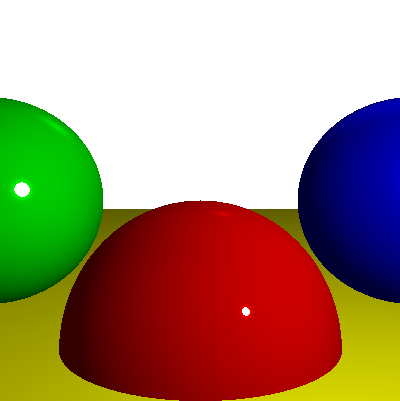
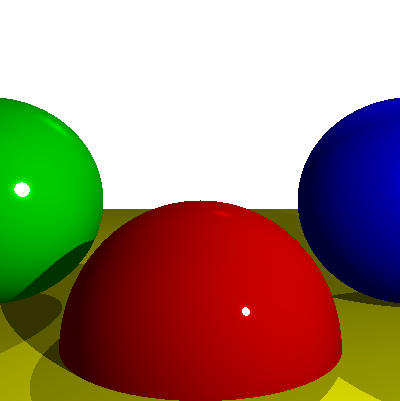
Initial version of shadows was added.

Changed region(s): [[0.57, 0.5686, 1.0, 1.0], [0.0, 0.5985, 0.45, 1.0]]

diff --git a/ray_trace/mainwindow.cpp b/ray_trace/mainwindow.cpp
@@ -62,6 +62,25 @@ std::vector<double> CanvasToViewport(double x, double y) {
     return {x * Vw / Cw, y * Vh / Ch, d};
 }
 
+void ClosestIntersection (const std::vector<double>& O,
+                          const std::vector<double>& D,
+                          const double& t_min,
+                          const double& t_max,
+                          double& closest_t,
+                          Object*& closest_object) {
+    for (size_t i = 0; i < objects.size(); i++) {
+        std::vector<double> intersections = objects[i]->IntersectRay(O, D);
+        if (intersections[0] > t_min && intersections[0] < t_max && intersections[0] < closest_t) {
+            closest_t = intersections[0];
+            closest_object= objects[i];
+        }
+        if (intersections[1] > t_min && intersections[1] < t_max && intersections[1] < closest_t) {
+            closest_t = intersections[1];
+            closest_object = objects[i];
+        }
+    }
+}
+
 double ComputeLightning(const std::vector<double>& P,
                         const std::vector<double>& N,
                         const std::vector<double>& V,
@@ -72,13 +91,25 @@ double ComputeLightning(const std::vector<double>& P,
         if (light.t == Light::type::ambient) {
             i += light.intensity;
         } else {
+            double t_max;
             if (light.t == Light::type::point) {
                 L = {light.position[0] - P[0],
                      light.position[1] - P[1],
                      light.position[2] - P[2]};
+                t_max = 1;
             } else {
                 L =light.direction;
+                t_max = std::numeric_limits<double>::max();
             }
+
+            // Shadow check
+            double shadow_t = std::numeric_limits<double>::max();
+            Object* closest_shadow_object = nullptr;
+            ClosestIntersection(P, L, 1E-3, t_max, shadow_t, closest_shadow_object);
+            if (closest_shadow_object != nullptr) {
+                continue;
+            }
+
 
             // Diffusual
             double n_dot_l = VectorScalarMult(N, L);
@@ -103,17 +134,8 @@ double ComputeLightning(const std::vector<double>& P,
 std::vector<int> TraceRay(const std::vector<double>& O, const std::vector<double>& D, double t_min, double t_max) {
     double closest_t = std::numeric_limits<double>::max();
     Object* closest_object = nullptr;
-    for (size_t i = 0; i < objects.size(); i++) {
-        std::vector<double> intersections = objects[i]->IntersectRay(O, D);
-        if (intersections[0] > t_min && intersections[0] < t_max && intersections[0] < closest_t) {
-            closest_t = intersections[0];
-            closest_object= objects[i];
-        }
-        if (intersections[1] > t_min && intersections[1] < t_max && intersections[1] < closest_t) {
-            closest_t = intersections[1];
-            closest_object = objects[i];
-        }
-    }
+
+    ClosestIntersection(O, D, t_min, t_max, closest_t, closest_object);
 
     if (closest_object == nullptr) {
         return BG_COLOR;
@@ -126,7 +148,6 @@ std::vector<int> TraceRay(const std::vector<double>& O, const std::vector<double
          N[2] / VectorLength(N)};
 
     return VectorMult(closest_object->getColor(), ComputeLightning(P, N, VectorMult(D, -1), closest_object->getSpecular()));
-//    return closest_sphere->color; Old shit, Man
 }
 
 void MainWindow::draw_spheres() {
